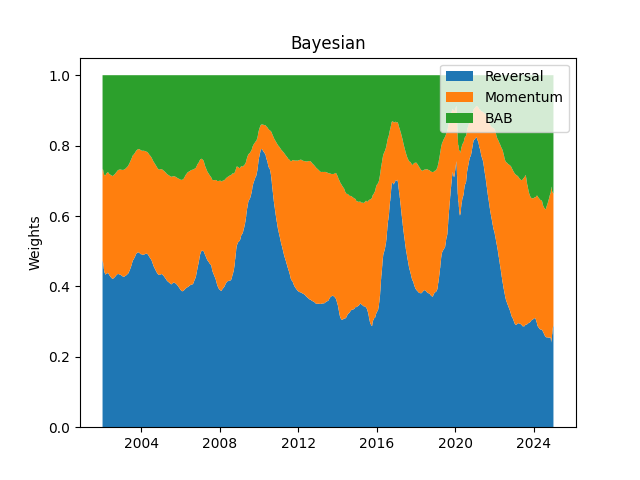
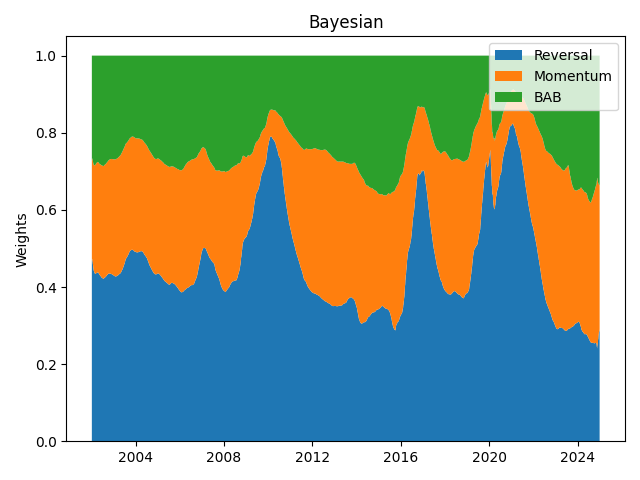
Added more charts.

Changed region(s): [[0.0312, 0.0312, 0.9688, 0.9688], [0.25, 0.5625, 0.2812, 0.5938], [0.0625, 0.0938, 0.0938, 0.125]]

diff --git a/experiments/fama_macbeth.py b/experiments/fama_macbeth.py
@@ -3,7 +3,7 @@ import datetime as dt
 import polars_ols as pls
 from signals.expr import momentum, reversal, bab
 from signals.utils import get_assets_data
-from experiments.utils import save_lineplot, save_stackplot
+from experiments.utils import save_weights_lineplot, save_weights_stackplot, save_values_lineplot
 from pathlib import Path
 
 start = dt.date(2000, 1, 1)
@@ -97,14 +97,14 @@ span = WINDOW
 signal_weights = (
     gammas
     .with_columns(
-        w_momentum=pl.col('g_momentum') / pl.sum_horizontal('g_momentum', 'g_reversal', 'g_bab'),
-        w_reversal=pl.col('g_reversal') / pl.sum_horizontal('g_momentum', 'g_reversal', 'g_bab'),
-        w_bab=pl.col('g_bab') / pl.sum_horizontal('g_momentum', 'g_reversal', 'g_bab'),
+        g_norm_momentum=pl.col('g_momentum') / pl.sum_horizontal('g_momentum', 'g_reversal', 'g_bab'),
+        g_norm_reversal=pl.col('g_reversal') / pl.sum_horizontal('g_momentum', 'g_reversal', 'g_bab'),
+        g_norm_bab=pl.col('g_bab') / pl.sum_horizontal('g_momentum', 'g_reversal', 'g_bab'),
     )
     .with_columns(
-        e_mom=pl.col('w_momentum').exp(),
-        e_rev=pl.col('w_reversal').exp(),
-        e_bab=pl.col('w_bab').exp(),
+        e_mom=pl.col('g_norm_momentum').exp(),
+        e_rev=pl.col('g_norm_reversal').exp(),
+        e_bab=pl.col('g_norm_bab').exp(),
     )
     .with_columns(
         w_momentum=pl.col('e_mom') / pl.sum_horizontal('e_mom', 'e_rev', 'e_bab'),
@@ -129,7 +129,25 @@ w_bab = signal_weights['w_bab'].to_list()
 folder_path = Path("results/fama_macbeth")
 folder_path.mkdir(exist_ok=True, parents=True)
 
-save_stackplot(
+save_values_lineplot(
+    values=signal_weights,
+    columns=['g_reversal', 'g_momentum', 'g_bab'],
+    labels=['Reversal', 'Momentum', 'BAB'],
+    file_path=folder_path / "values.png",
+    title="Fama-Macbeth",
+    value_name="Gamma"
+)
+
+save_values_lineplot(
+    values=signal_weights,
+    columns=['g_norm_reversal', 'g_norm_momentum', 'g_norm_bab'],
+    labels=['Reversal', 'Momentum', 'BAB'],
+    file_path=folder_path / "normalized.png",
+    title="Fama-Macbeth",
+    value_name="Normalized Gamma"
+)
+
+save_weights_stackplot(
     dates,
     w_reversal,
     w_momentum,
@@ -139,7 +157,7 @@ save_stackplot(
     title="Fama Macbeth"
 )
 
-save_lineplot(
+save_weights_lineplot(
     weights=signal_weights,
     columns=['w_reversal', 'w_momentum', 'w_bab'],
     labels=['Reversal', 'Momentum', 'BAB'],

diff --git a/experiments/bayesian.py b/experiments/bayesian.py
@@ -1,6 +1,6 @@
 import polars as pl
 import numpy as np
-from utils import save_lineplot, save_stackplot
+from utils import save_weights_lineplot, save_weights_stackplot, save_values_lineplot
 from pathlib import Path
 import datetime as dt
 
@@ -47,25 +47,27 @@ for t in range(WINDOW, len(returns_np)):
     mu_n = Sigma_n @ (Sigma_0_inv @ mu_0 + n * Sigma_inv @ x_bar)
 
     # Normalize
-    weights = mu_n / mu_n.sum()
+    mu_normalized = mu_n / mu_n.sum()
 
     # Softmax
-    exp_w = np.exp(weights)
-    weights = exp_w / exp_w.sum()
+    exp_w = np.exp(mu_normalized)
+    weights_softmax = exp_w / exp_w.sum()
 
     rows.append(
-        {'date': dates[t]}
-        |
-        {f'w_{name}': weights[i] for i, name in enumerate(signal_names)}
+        {'date': dates[t]} |
+        {f"mu_{name}": mu_n[i] for i, name in enumerate(signal_names)} |
+        {f"mu_norm_{name}": mu_normalized[i] for i, name in enumerate(signal_names)} |
+        {f'w_{name}': weights_softmax[i] for i, name in enumerate(signal_names)}
     )
 
 # Combine and smooth weights
+weight_columns = [f'w_{name}' for name in signal_names]
 signal_weights = pl.DataFrame(rows)
 signal_weights = (
     signal_weights
     .sort('date')
     .with_columns(
-        pl.exclude('date').ewm_mean(span=WINDOW)
+        pl.col(weight_columns).ewm_mean(span=WINDOW)
     )
 )
 
@@ -73,7 +75,25 @@ signal_weights = (
 folder_path = Path("results/bayesian")
 folder_path.mkdir(exist_ok=True, parents=True)
 
-save_stackplot(
+save_values_lineplot(
+    values=signal_weights,
+    columns=['mu_reversal', 'mu_momentum', 'mu_bab'],
+    labels=['Reversal', 'Momentum', 'BAB'],
+    file_path=folder_path / "values.png",
+    title="Bayesian",
+    value_name="mu"
+)
+
+save_values_lineplot(
+    values=signal_weights,
+    columns=['mu_norm_reversal', 'mu_norm_momentum', 'mu_norm_bab'],
+    labels=['Reversal', 'Momentum', 'BAB'],
+    file_path=folder_path / "normalized.png",
+    title="Bayesian",
+    value_name="Normalized mu"
+)
+
+save_weights_stackplot(
     signal_weights['date'],
     signal_weights['w_reversal'],
     signal_weights['w_momentum'],
@@ -83,7 +103,7 @@ save_stackplot(
     title="Bayesian",
 )
 
-save_lineplot(
+save_weights_lineplot(
     weights=signal_weights,
     columns=['w_reversal', 'w_momentum', 'w_bab'],
     labels=['Reversal', 'Momentum', 'BAB'],

diff --git a/experiments/mve.py b/experiments/mve.py
@@ -1,6 +1,6 @@
 import polars as pl
 import numpy as np
-from utils import save_lineplot, save_stackplot
+from utils import save_weights_lineplot, save_weights_stackplot, save_values_lineplot
 from pathlib import Path
 import datetime as dt
 
@@ -36,19 +36,20 @@ for t in range(WINDOW, len(R_full)):
     mu = R_window.mean(axis=0)
     Sigma = np.cov(R_window, rowvar=False)
 
-    weights = np.linalg.solve(Sigma, mu)
+    weights_raw = np.linalg.solve(Sigma, mu)
 
     # Normalize
-    weights = weights / weights.sum()
+    weights_normalized = weights_raw / weights_raw.sum()
 
     # Softmax (shift by max for numerical stability)
-    exp_s = np.exp(weights - weights.max())
-    weights = exp_s / exp_s.sum()
+    exp_s = np.exp(weights_normalized - weights_normalized.max())
+    weights_softmax = exp_s / exp_s.sum()
 
     rows.append(
-        {'date': dates[t]}
-        |
-        {f'w_{name}': weights[i] for i, name in enumerate(signal_names)}
+        {'date': dates[t]} |
+        {f'w_raw_{name}': weights_raw[i] for i, name in enumerate(signal_names)} |
+        {f'w_norm_{name}': weights_normalized[i] for i, name in enumerate(signal_names)} |
+        {f'w_{name}': weights_softmax[i] for i, name in enumerate(signal_names)}
     )
 
 # Combine and smooth weights
@@ -65,7 +66,25 @@ signal_weights = (
 folder_path = Path("results/mve")
 folder_path.mkdir(exist_ok=True, parents=True)
 
-save_stackplot(
+save_values_lineplot(
+    values=signal_weights,
+    columns=['w_raw_reversal', 'w_raw_momentum', 'w_raw_bab'],
+    labels=['Reversal', 'Momentum', 'BAB'],
+    file_path=folder_path / "values.png",
+    title="MVE",
+    value_name="Raw Weights"
+)
+
+save_values_lineplot(
+    values=signal_weights,
+    columns=['w_norm_reversal', 'w_norm_momentum', 'w_norm_bab'],
+    labels=['Reversal', 'Momentum', 'BAB'],
+    file_path=folder_path / "normalized.png",
+    title="MVE",
+    value_name="Normalized Weights"
+)
+
+save_weights_stackplot(
     signal_weights['date'],
     signal_weights['w_reversal'],
     signal_weights['w_momentum'],
@@ -75,7 +94,7 @@ save_stackplot(
     title="MVE",
 )
 
-save_lineplot(
+save_weights_lineplot(
     weights=signal_weights,
     columns=['w_reversal', 'w_momentum', 'w_bab'],
     labels=['Reversal', 'Momentum', 'BAB'],

diff --git a/experiments/utils.py b/experiments/utils.py
@@ -3,16 +3,17 @@ import seaborn as sns
 import datetime as dt
 import polars as pl
 
-def save_stackplot(dates: list[dt.date], *args, labels: list[str], file_path: str, title: str):
+def save_weights_stackplot(dates: list[dt.date], *args, labels: list[str], file_path: str, title: str):
     plt.stackplot(dates, *args, labels=labels)
     plt.title(title)
     plt.ylabel("Weights")
     plt.xlabel(None)
     plt.legend(loc="upper right")
+    plt.tight_layout()
     plt.savefig(file_path)
     plt.clf()
 
-def save_lineplot(weights: pl.DataFrame, columns: list[str], labels: list[str], file_path: str, title: str):
+def save_weights_lineplot(weights: pl.DataFrame, columns: list[str], labels: list[str], file_path: str, title: str):
     for column, label in zip(columns, labels):
         sns.lineplot(weights, x='date', y=column, label=label)
     plt.title(title)
@@ -20,5 +21,17 @@ def save_lineplot(weights: pl.DataFrame, columns: list[str], labels: list[str], 
     plt.ylabel("Weights")
     plt.xlabel(None)
     plt.legend(loc="upper right")
+    plt.tight_layout()
+    plt.savefig(file_path)
+    plt.clf()
+
+def save_values_lineplot(values: pl.DataFrame, columns: list[str], labels: list[str], file_path: str, title: str, value_name: str):
+    for column, label in zip(columns, labels):
+        sns.lineplot(values, x='date', y=column, label=label)
+    plt.title(title)
+    plt.ylabel(value_name)
+    plt.xlabel(None)
+    plt.legend(loc="upper right")
+    plt.tight_layout()
     plt.savefig(file_path)
     plt.clf()
